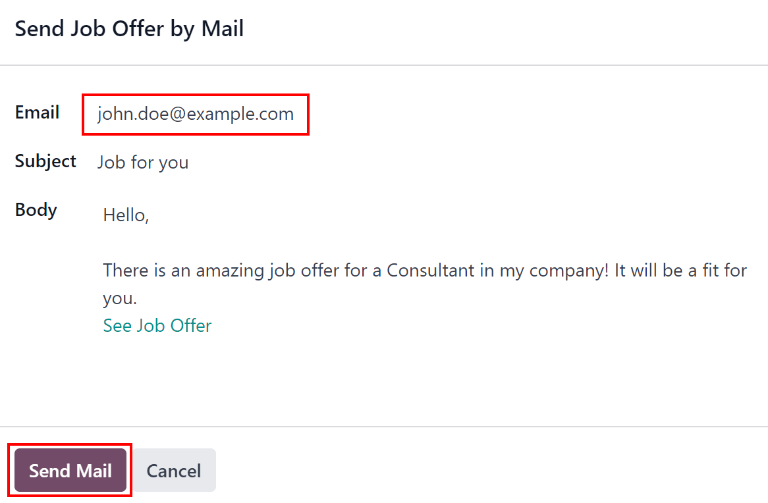
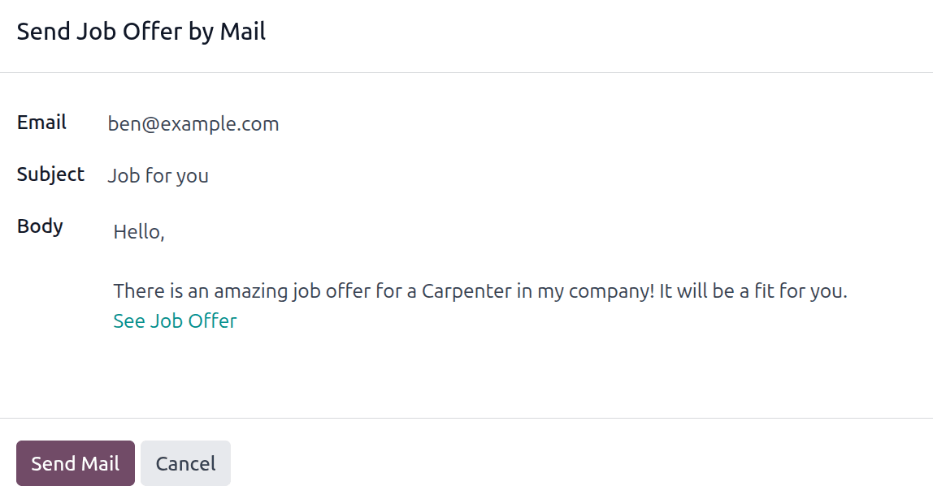
[IMP] Referrals: Update share jobs

diff --git a/content/applications/hr/referrals/share_jobs.rst b/content/applications/hr/referrals/share_jobs.rst
@@ -2,26 +2,29 @@
 Share job positions
 ===================
 
-In Odoo *Referrals*, users can earn referral points by sharing job positions with potential
-applicants. Job positions can be shared in several ways, through the :ref:`View Jobs
-<referrals/view-jobs>` button and the :ref:`Email A Friend <referrals/email-jobs>` button, located
-at the bottom of the *Referrals* app dashboard.
+In Odoo **Referrals**, users can earn referral points by sharing job positions with potential
+applicants. Individual job positions can be shared in several ways: via :ref:`email
+<referrals/email>`, :ref:`SMS <referrals/sms>`, :ref:`WhatsApp <referrals/whatsapp>`, a
+:ref:`tracking link <referrals/link>`, and various :ref:`social media platforms <referrals/social>`.
+
+Additionally, *all* job positions can be :ref:`shared via email <referrals/email-jobs>`, instead of
+sharing individual job positions.
 
 .. note::
-   Sharing jobs can **only** occur after onboarding slides have been viewed or skipped.
+   Sharing jobs can **only** occur after :ref:`onboarding <referrals/onboarding>` slides have been
+   viewed or skipped.
 
 .. _referrals/view-jobs:
 
-View Jobs
-=========
+View all jobs
+=============
 
 To see all job positions that are actively recruiting candidates, click the :guilabel:`View Jobs`
-button on the main *Referrals* dashboard. This presents all job positions, with each individual job
+button on the main **Referrals** app dashboard. This presents all job positions, with each job
 presented with its own card.
 
 .. image:: share_jobs/jobs.png
-   :align: center
-   :alt: The 'View Jobs' screen, displaying all current open job positions. All information is
+   :alt: The View Jobs screen, displaying all current open job positions. All information is
          displayed on the card.
 
 Each job position card contains the following information:
@@ -30,24 +33,30 @@ Each job position card contains the following information:
   form.
 - The number of :guilabel:`Open Positions` being recruited. This information is taken from the
   *Expected New Employees* field of the *Recruitment* tab of the job form.
-- The points a user earns when an applicant applies for the position.
+- The :doc:`points <points>` a user earns when an applicant applies for the position.
 - The job description detailing the job position. This information is taken from the *Job Position*
   tab of the job form.
 
-To see all the details for a job position, click the :guilabel:`More Info` button on the specific
-card. This opens the job position webpage in a new browser tab. This is what an applicant sees
-before applying for a position.
-
 .. note::
-   Only published job positions are visible in the *Referrals* app. To check which job positions are
-   published or not, refer to the :doc:`../recruitment/new_job` documentation.
+   Only published job positions are visible in the **Referrals** app. To check which job positions
+   are published or not, refer to the :doc:`../recruitment/new_job` documentation.
 
-Refer friends
-=============
+Share an individual job
+=======================
 
-To share a job position with someone, click the :guilabel:`Refer Friend` button on the specific job
-position card. A pre-configured :guilabel:`Send Job Offer by Mail` pop-up window appears. Enter the
-recipient's email address in the :guilabel:`Email` field.
+To share an individual job position, first click the :guilabel:`View Jobs` button on the main
+**Referrals** app dashboard. This presents a list of all currently published jobs. From this page,
+an individual job can be shared with someone using one of the methods below.
+
+.. _referrals/email:
+
+Send email
+----------
+
+To share an individual job position via email, click the :icon:`fa-envelope-o` :guilabel:`Send
+Email` button on the specific job position card. A preconfigured email template appears in a pop-up
+window, using the :guilabel:`Send Job Offer by Mail` template. Enter the recipient's email address
+in the :guilabel:`Email` field.
 
 The :guilabel:`Subject` and :guilabel:`Body` are populated using a default template. The
 :guilabel:`Subject` `Job for you` is present, by default, but can be modified, if desired.
@@ -58,78 +67,126 @@ position listed on the website.
 
 When the prospective employee receives the email, the link sends them to the job position page,
 where they can apply for the position, and the person who referred them is tracked in the
-*Referrals* application.
+**Referrals** app.
 
 If desired, add any text or closing salutation to the email body. When all edits have been made,
 click :guilabel:`Send Mail` to send the email, or click :guilabel:`Cancel` to close the pop-up
 window.
 
 .. image:: share_jobs/email.png
-   :align: center
    :alt: Referral email pop-up window with the email message inside it.
 
-Share a job
-===========
+.. _referrals/sms:
 
-Other than sending an email, job positions can be shared, via social media platforms, and by
-tracking links to the job position. At the bottom of each job position card are four icons, and
-corresponding tracking links, that can be used to share the job position, keeping track of
-applicants in the *Referrals* application.
-
-.. image:: share_jobs/share.png
-   :align: center
-   :alt: The various sharing icons that appear for each job.
-
-Link
-----
-
-To share the job position with a customized tracking link, click the :guilabel:`Share Now` button
-with the :icon:`fa-chain` :guilabel:`(link)` icon above it. A :guilabel:`Link to Share` pop-up
-window appears with the tracking link. Click :guilabel:`Copy` to copy the link. After the link is
-copied, click the :guilabel:`Close` button to close the pop-up window. Next, share the link with
-the prospective employee.
-
-Facebook
+Send SMS
 --------
 
-To share the job position using Facebook, click the :guilabel:`Share Now` button with the
-:icon:`fa-facebook` :guilabel:`(Facebook)` icon above it.
+To share an individual job position with someone via SMS (text message), click the :icon:`fa-mobile`
+:guilabel:`Send SMS` button on the specific job position card. A preconfigured :guilabel:`Send Job
+Offer by SMS` pop-up window appears. Enter the recipient's mobile number in the
+:guilabel:`Recipient` field.
 
-If the user is already logged into Facebook, when the the :guilabel:`Share Now` button is clicked, a
-:guilabel:`Share on Facebook` page loads in a new tab, with the link populated in the main body of
-the new post in a pop-up window. If the user is *not* already logged in, a log-in screen loads,
-instead, prompting the user to log-in to Facebook first.
+Modify the prepopulated :guilabel:`Body` message, if desired, then click the :guilabel:`Send SMS`
+button to send the message, or click :guilabel:`Cancel` to close the pop-up window and cancel the
+message.
+
+.. note::
+   Sending text messages is **not** a default capability with Odoo. To send text messages, credits
+   are required, which need to be purchased. For more information on IAP credits and plans, refer to
+   the :doc:`../../essentials/in_app_purchase` documentation.
+
+.. _referrals/whatsapp:
+
+Send WhatsApp
+-------------
+
+To share an individual job position with someone via WhatsApp, click the :icon:`fa-whatsapp`
+:guilabel:`Send WhatsApp` button on the specific job position card. A preconfigured :guilabel:`Send
+Job Offer by WhatsApp` pop-up window appears. Enter the recipient's mobile number in the
+:guilabel:`Recipient` field.
+
+Modify the default message, if desired, then click the :guilabel:`Send WhatsApp` button to send the
+message, or click :guilabel:`Cancel` to close the pop-up window and cancel the message.
+
+.. note::
+   To send WhatsApp messages, WhatsApp must be configured in Odoo. For more information, refer to
+   the :doc:`../../productivity/whatsapp` documentation.
+
+Job page
+--------
+
+To see all the details for a job position, click the :icon:`fa-globe` :guilabel:`Job Page` button on
+the specific card. Doing so opens the job position webpage in a new browser tab. This is what an
+applicant sees before applying for a position.
+
+.. _referrals/link:
+
+Share now
+---------
+
+To share the job position with a customized tracking link, click the :icon:`fa-chain`
+:guilabel:`Share Now` button to copy the link. A pop-up window in the corner of the computer loads,
+stating `Referral link: (link to Job Position) has been copied to clipboard`.
+
+Next, share the link with the prospective employee.
+
+.. _referrals/social:
+
+Share a job via social media
+----------------------------
+
+Other than sending an email, SMS, WhatsApp message, or sharing a tracking link, job positions can be
+shared via social media platforms (:ref:`Facebook <referrals/facebook>`, :ref:`X <referrals/x>`, and
+:ref:`LinkedIn <referrals/linkedin>`. On each job position card are the three corresponding social
+media icons that can be used to share the job position, keeping track of applicants in the
+**Referrals** application.
+
+.. _referrals/facebook:
+
+Facebook
+~~~~~~~~
+
+To share the job position using Facebook, click the :icon:`fa-facebook` :guilabel:`Share Now`
+button.
+
+If the user is already logged into Facebook, when the :icon:`fa-facebook` :guilabel:`Share Now`
+button is clicked, Facebook loads in a new tab, where a :guilabel:`Create post` pop-up window loads
+with the tracking link attached.
 
 Type in any additional information to add to the post, then share the job position using the
 available options in Facebook.
 
+.. note::
+   To share the job via Facebook,first, the user **must** be logged into Facebook. If the user is
+   *not* already logged in, when the :icon:`fa-facebook` :guilabel:`Share Now` button is clicked, a
+   new tab loads, stating `You are not logged in. Please login and try again.`
+
+.. _referrals/x:
+
 X (formerly Twitter)
---------------------
+~~~~~~~~~~~~~~~~~~~~
 
-A job position can also be shared on X. Click the :guilabel:`Share Now` button with the
-:guilabel:`(X)` icon above it.
+To share a job position on X, click the :guilabel:`X Share Now` button.
 
-If the user is already signed-in to X, when the :guilabel:`Share Now` button is clicked, an X page
+If the user is already signed-in to X, when the :guilabel:`X Share Now` button is clicked, an X page
 loads in a new tab with a pre-populated message ready to post, in a draft pop-up window. If the user
 is *not* already signed-in, a sign-in screen loads instead, prompting the user to first sign-in to
 X.
 
-The default message is:
+Type in any additional information, or make any edits to the default message, then share using the
+available options in X.
 
-`Amazing job offer for (Job Position)! Check it live: (link to Job Position)`
-
-Type in any additional information, or make any edits to the message, then share using the available
-options in X.
+.. _referrals/linkedin:
 
 LinkedIn
---------
+~~~~~~~~
 
-To share a job position on LinkedIn, click the :guilabel:`Share Now` button with the
-:icon:`fa-linkedin` :guilabel:`(LinkedIn)` icon above it.
+To share a job position on LinkedIn, click the :icon:`fa-linkedin` :guilabel:`Share Now` button.
 
-If the user is already logged into LinkedIn, when the :guilabel:`Share Now` button is clicked, a new
-tab loads in LinkedIn, with a link to the job position at the top. If the user is *not* already
-logged in, a log-in screen loads instead, prompting the user to log-in to LinkedIn first.
+If the user is already logged into LinkedIn, when the :icon:`fa-linkedin` :guilabel:`Share Now`
+button is clicked, a new tab loads in LinkedIn, with a link to the job position at the top. If the
+user is *not* already logged in, a log-in screen loads instead, prompting the user to log-in to
+LinkedIn first.
 
 The job position can be shared either in a public post, or in a private message to an individual (or
 group of individuals).
@@ -139,27 +196,20 @@ available options in LinkedIn.
 
 .. _referrals/email-jobs:
 
-Email a friend
---------------
+Share job list
+==============
 
 Another way to share job opportunities is to share the entire current list of open job positions,
 instead of one job position at a time. To do this, navigate to the :menuselection:`Referrals` main
 dashboard. Click the :guilabel:`Email a friend` button at the bottom of the screen. A
 :guilabel:`Send Job Offer by Mail` pop-up window appears.
 
-Enter the email address in the :guilabel:`Email` field. The email can be sent to multiple
-recipients by separating each email address with a comma followed by a single space. The
-:guilabel:`Subject` is pre-configured with :guilabel:`Job for you`, but can be edited.
+Enter the email address in the :guilabel:`Email` field. The email can be sent to multiple recipients
+by separating each email address with a comma followed by a single space. The :guilabel:`Subject` is
+preconfigured with :guilabel:`Job for you`, but can be edited. The email :guilabel:`Body` is also
+populated with preconfigured text.
 
-The email :guilabel:`Body` is also populated with pre-configured text. The text that appears is:
-
-`Hello,`
-
-`There are some amazing job offers in my company! Have a look, they can be interesting for you\:`
-
-`See Job Offers`
-
-The :guilabel:`See Job Offers` text is a tracking link to a complete list of all job positions
+The link to all active job positions is a tracking link to a complete list of all job positions
 currently being recruited for. Add any additional text and make any edits to the message body, if
 necessary. Then, click :guilabel:`Send Mail` to send the email. This sends the message, and closes
 the window.
